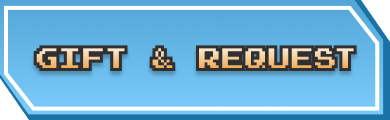
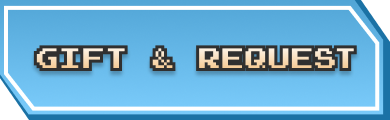
css

diff --git a/client/src/app/profile/page.tsx b/client/src/app/profile/page.tsx
@@ -278,7 +278,7 @@ export default function ProfilePage() {
               />
 
               {/* <h2 className="text-md font-semibold mb-4 text-gray-500">Your Pokémon Cards</h2> */}
-              {cards.length > 0 ? (
+              {filteredCards.length > 0 ? (
                 <div className="grid grid-cols-2 sm:grid-cols-3 md:grid-cols-4 gap-4 text-gray-700">
                   {filteredCards.map((card) => (
                     <div key={card.card_id} className="bg-gray-100 p-2 text-center">
@@ -289,13 +289,25 @@ export default function ProfilePage() {
                     </div>
                   ))}
                 </div>
-              ) : <p className="text-gray-600">No cards owned.</p>}
+              ) : <p className="text-gray-600">No Pokémon match your search.</p>}
 
             </div>
           </div>
         </div>
       </div>
-      {error && <p className="mt-4 text-red-500">{error}</p>}
-    </div>
+
+      {error && <>
+        {/* Display messages */}
+        < div className="bg-white py-2 p-4 mb-8 items-center justify-center flex flex-col"
+          style={{
+            borderRadius: "10px",
+            //   backgroundImage: "linear-gradient(#d76660, #f99987)",
+          }}
+        >
+          <p className="mt-4 text-red-500">{error}</p>
+        </div>
+      </>
+      }
+    </div >
   );
 }

diff --git a/client/src/app/components/navbar.tsx b/client/src/app/components/navbar.tsx
@@ -45,7 +45,7 @@ export default function Navbar() {
           </a>
           {name && (
             <a className="text-xs font-mono px-4 py-1 ml-4 hover:opacity-80 
-                          text-black drop-shadow text-center flex items-center"
+                          text-gray-800 drop-shadow text-center flex items-center"
               style={{
                 backgroundImage: `url(${nameBg.src})`,
                 backgroundSize: "100% 100%",
@@ -62,7 +62,7 @@ export default function Navbar() {
             className=""
           >
             {/* Logout */}
-            <Image src={logout} alt="Logout" width={110} height={40} className="hover:opacity-80 px-2 top-0 drop-shadow" />
+            <Image src={logout} alt="Logout" width={110} height={40} className="hover:opacity-80 px-2 top-0 drop-shadow cursor-pointer" />
           </button>
         </div>
       </div>

diff --git a/client/src/app/components/client-layout.tsx b/client/src/app/components/client-layout.tsx
@@ -13,7 +13,7 @@ export default function ClientLayout({
   const hideNavbar = pathname === "/login" || pathname === "/signup";
   const { data: session, status } = useSession();
   if (status === "loading") {
-    return <div className="text-white text-center mt-10">Loading...</div>;
+    return <div className="text-white text-center pt-60 font-joystix">Loading...</div>;
   }
   
   return (
